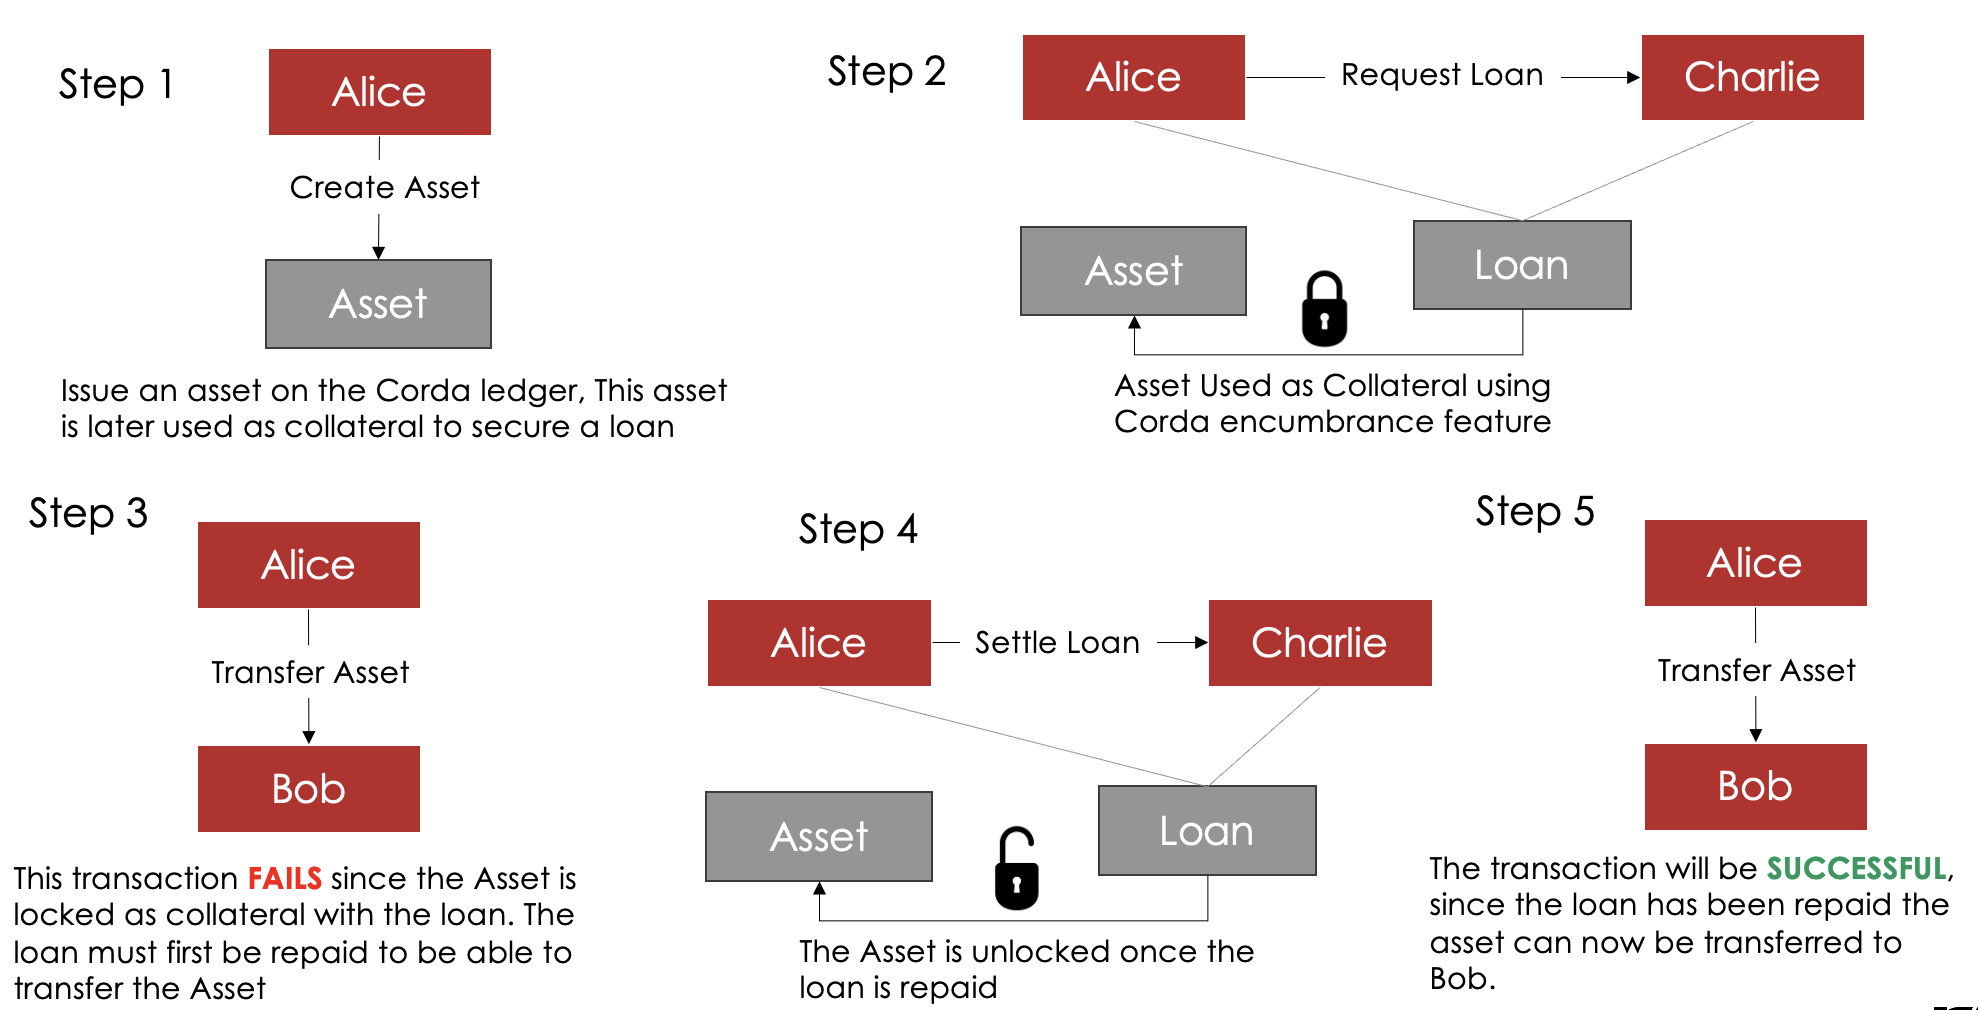
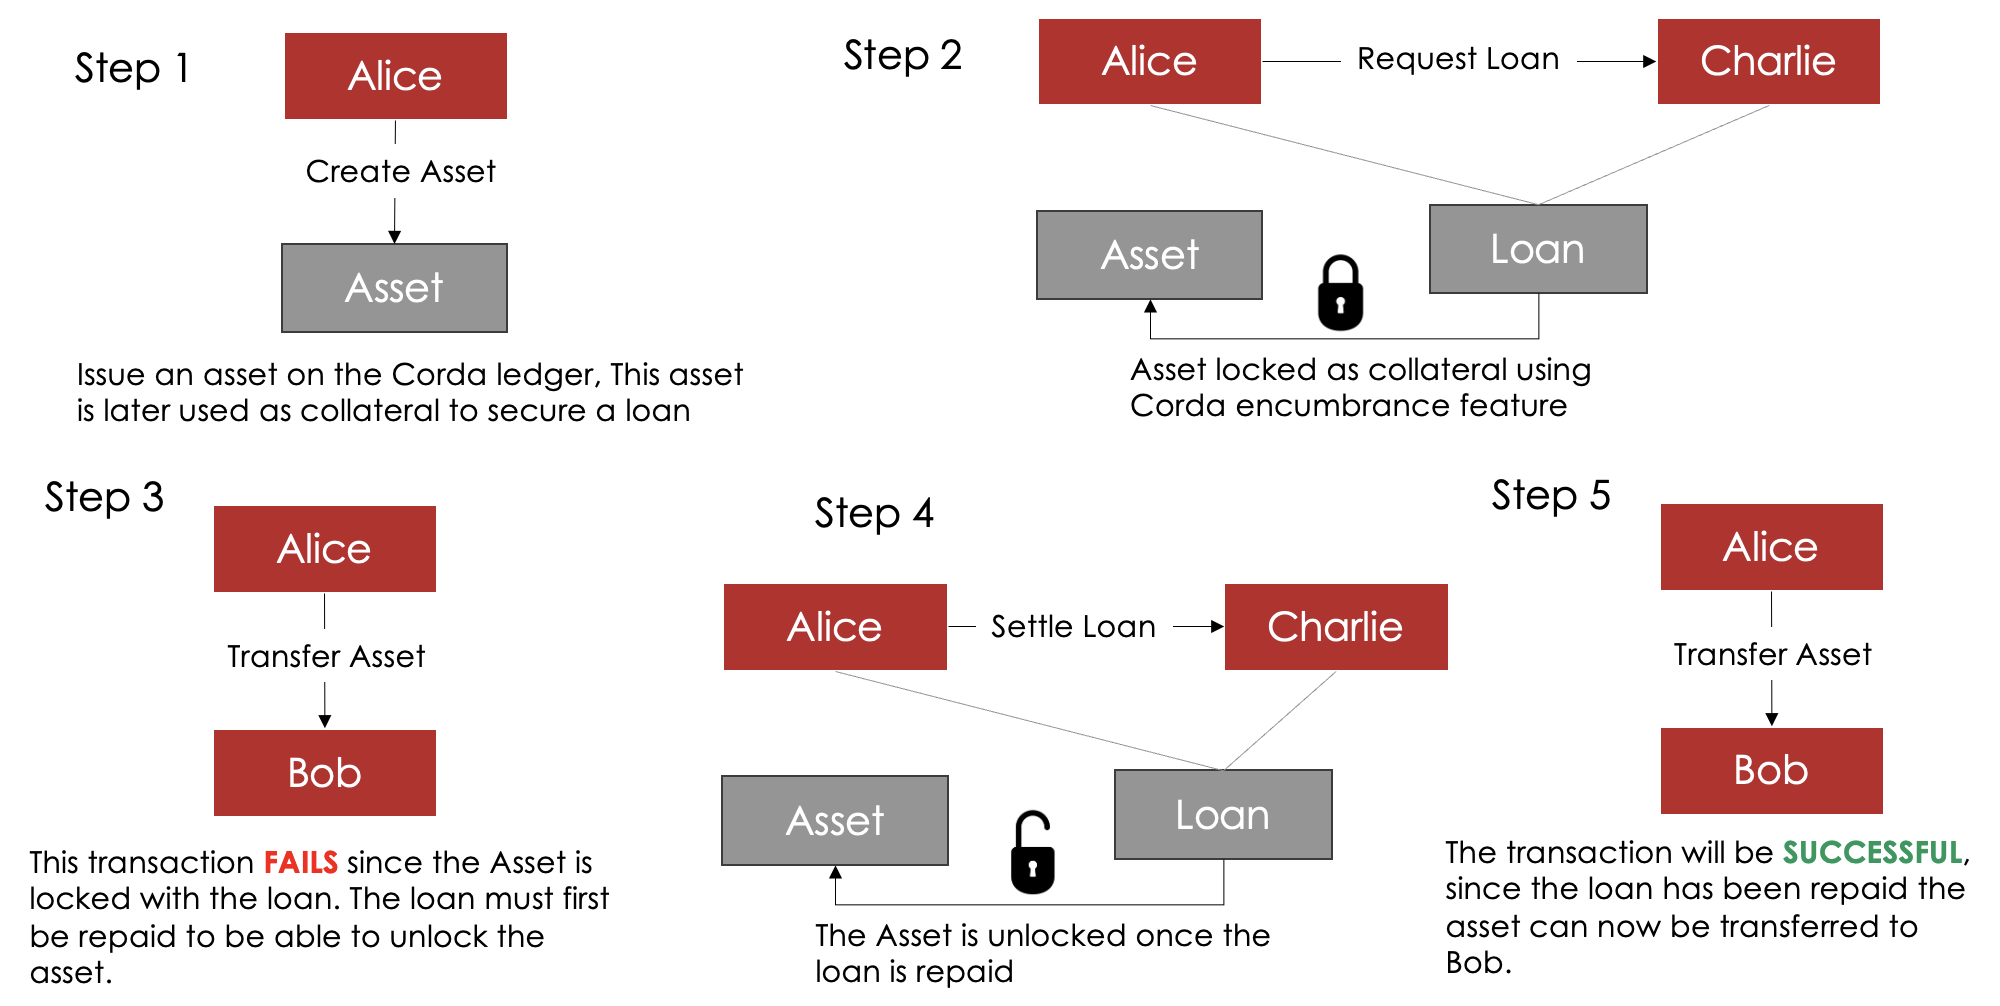
Adding diagram to README

diff --git a/java-samples/encumbrance-pawn-shop/README.md b/java-samples/encumbrance-pawn-shop/README.md
@@ -18,6 +18,10 @@ This is a basic sample which shows how you can use encumbrance in Corda. For thi
 created on Corda. We will request for a loan using the asset as a collateral. The Asset will would thus be locked
 and cannot be transferred to another party till the loan has been repaid.
 
+<p align="center">
+  <img src="./encumbrance-sample.png" alt="EncumbranceSampleFlow">
+</p>
+
 ## Usage
 
 
@@ -35,7 +39,7 @@ In Corda 5, flows will be triggered via `POST /flow/{holdingidentityshorthash}` 
 * clientrequestid: the id you specify in the flow requestBody when you trigger a flow.
 
 
-### Crete The Asset
+### Create The Asset
 
 Pick the Alice VNode's identity to create the Asset. Go to POST /flow/{holdingidentityshorthash}, enter the identity short hash(Alice's hash) and request body:
 
